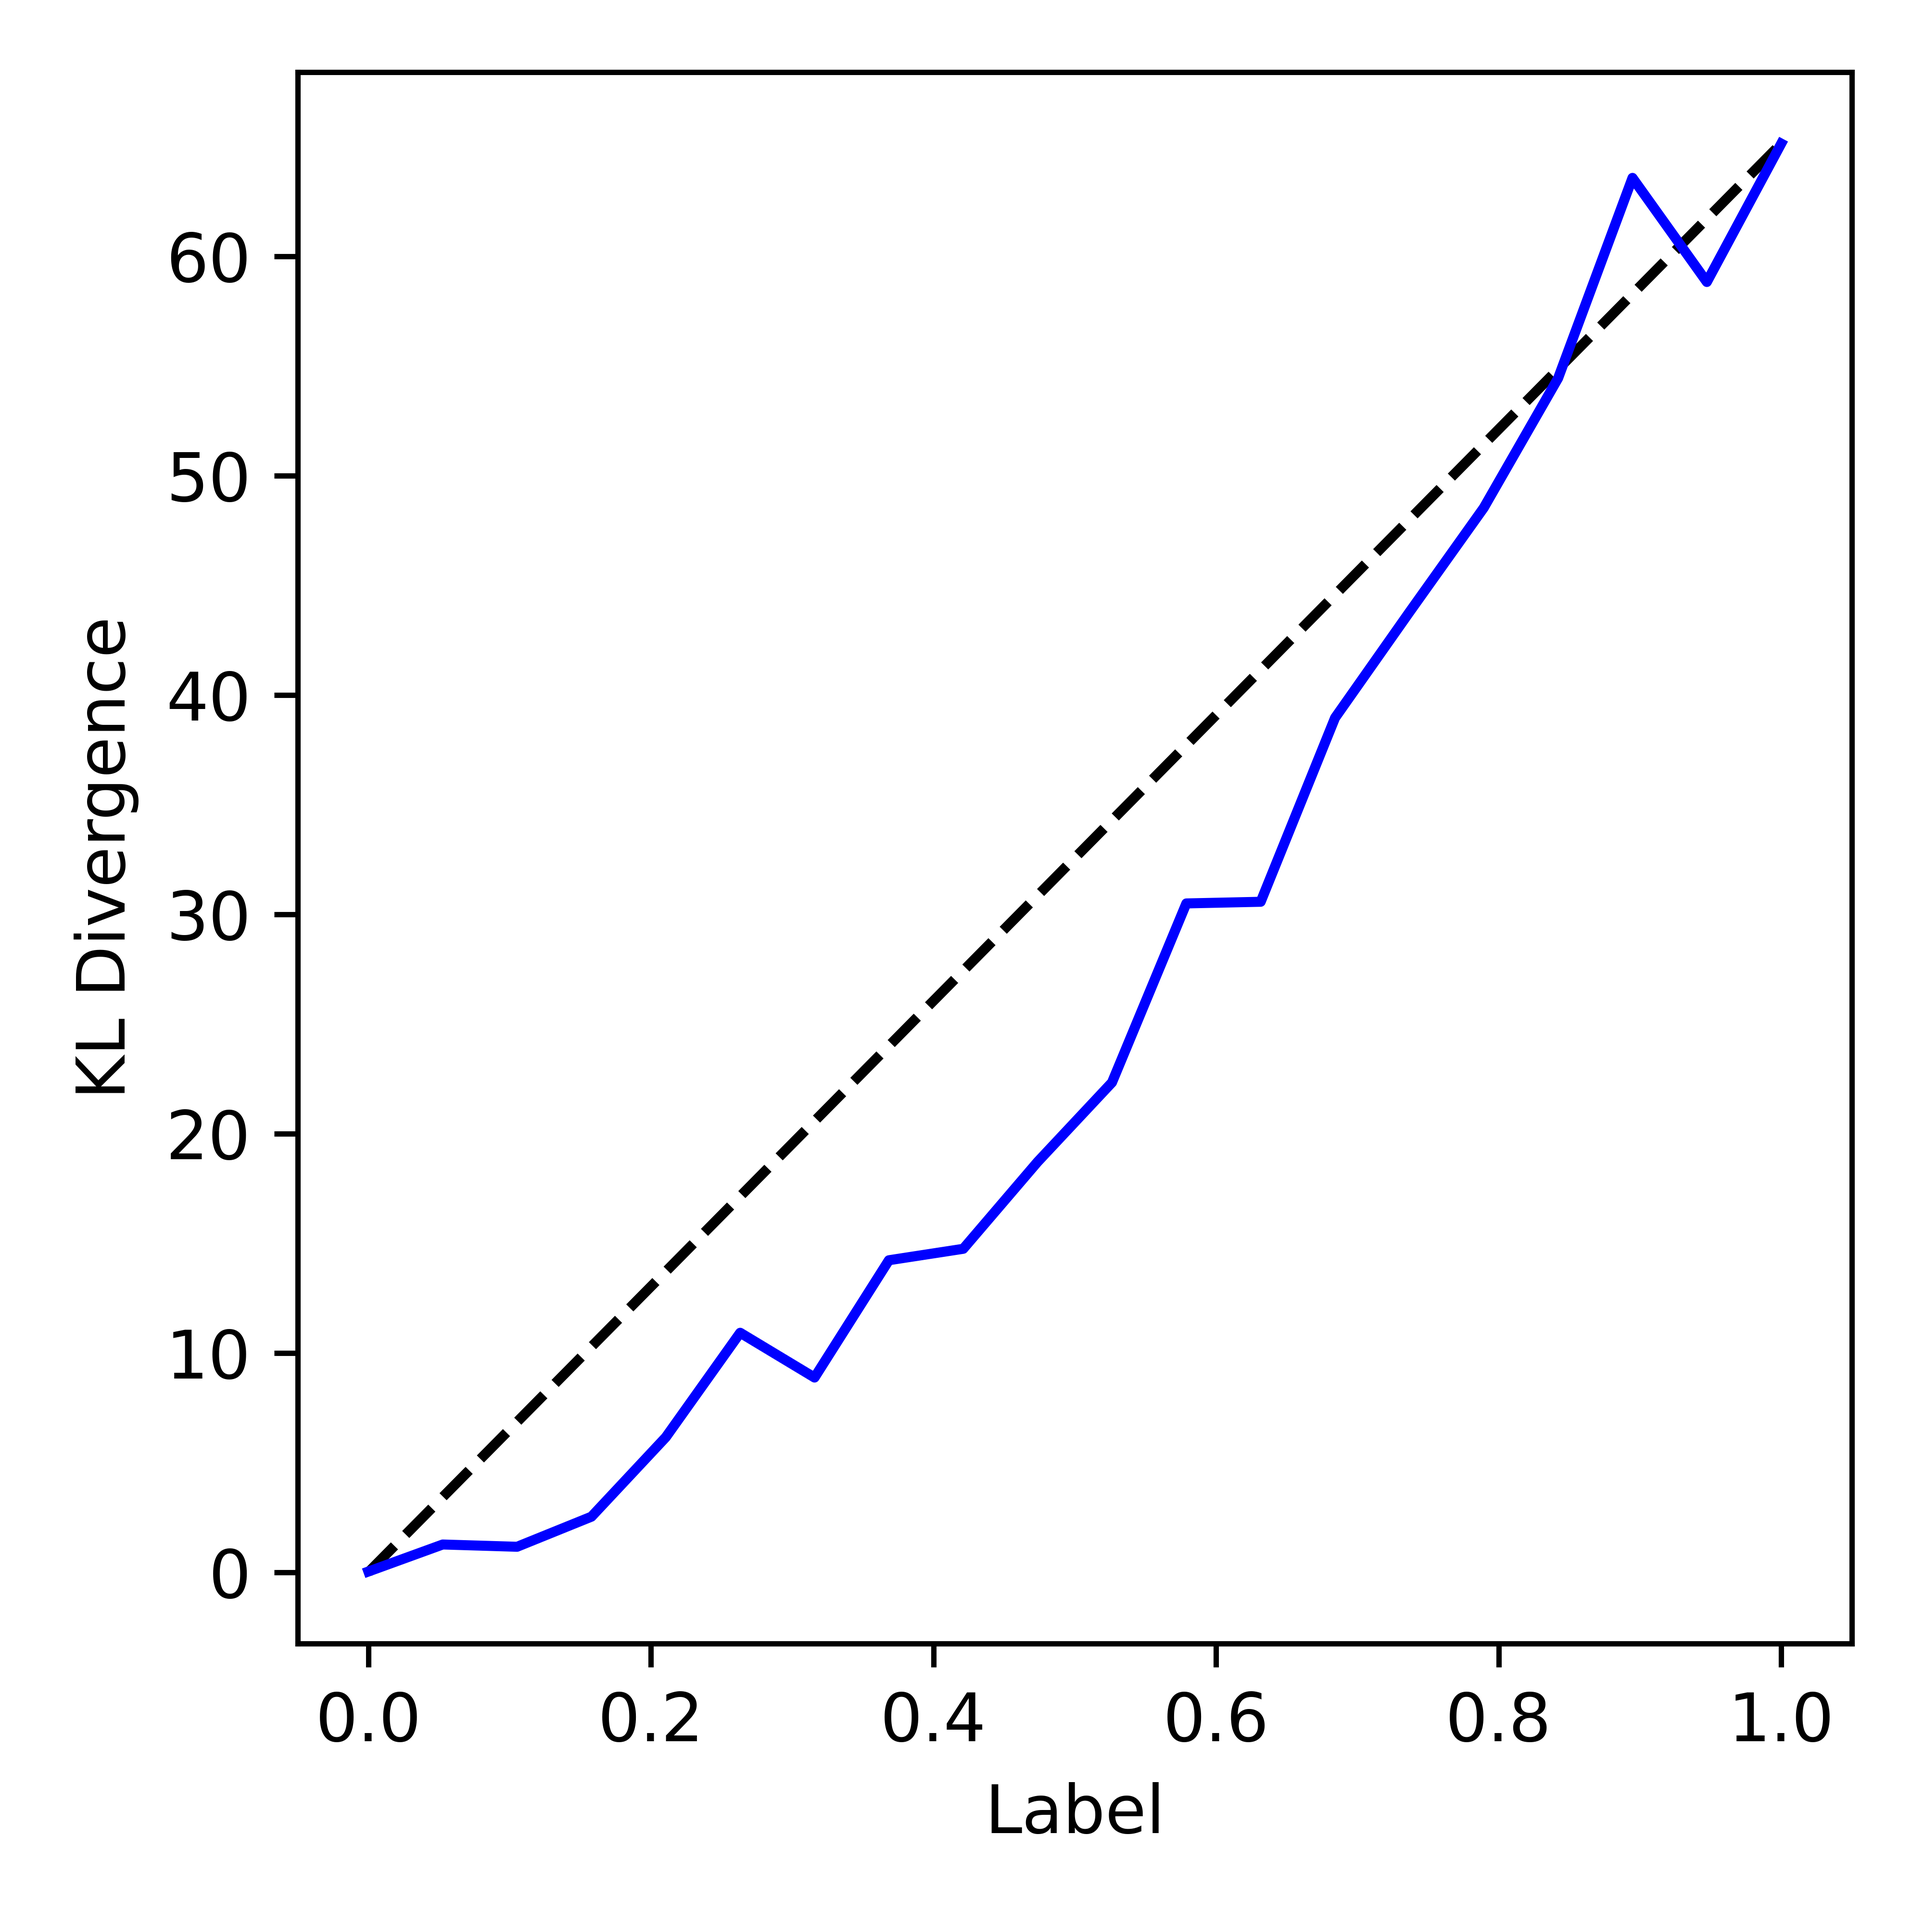
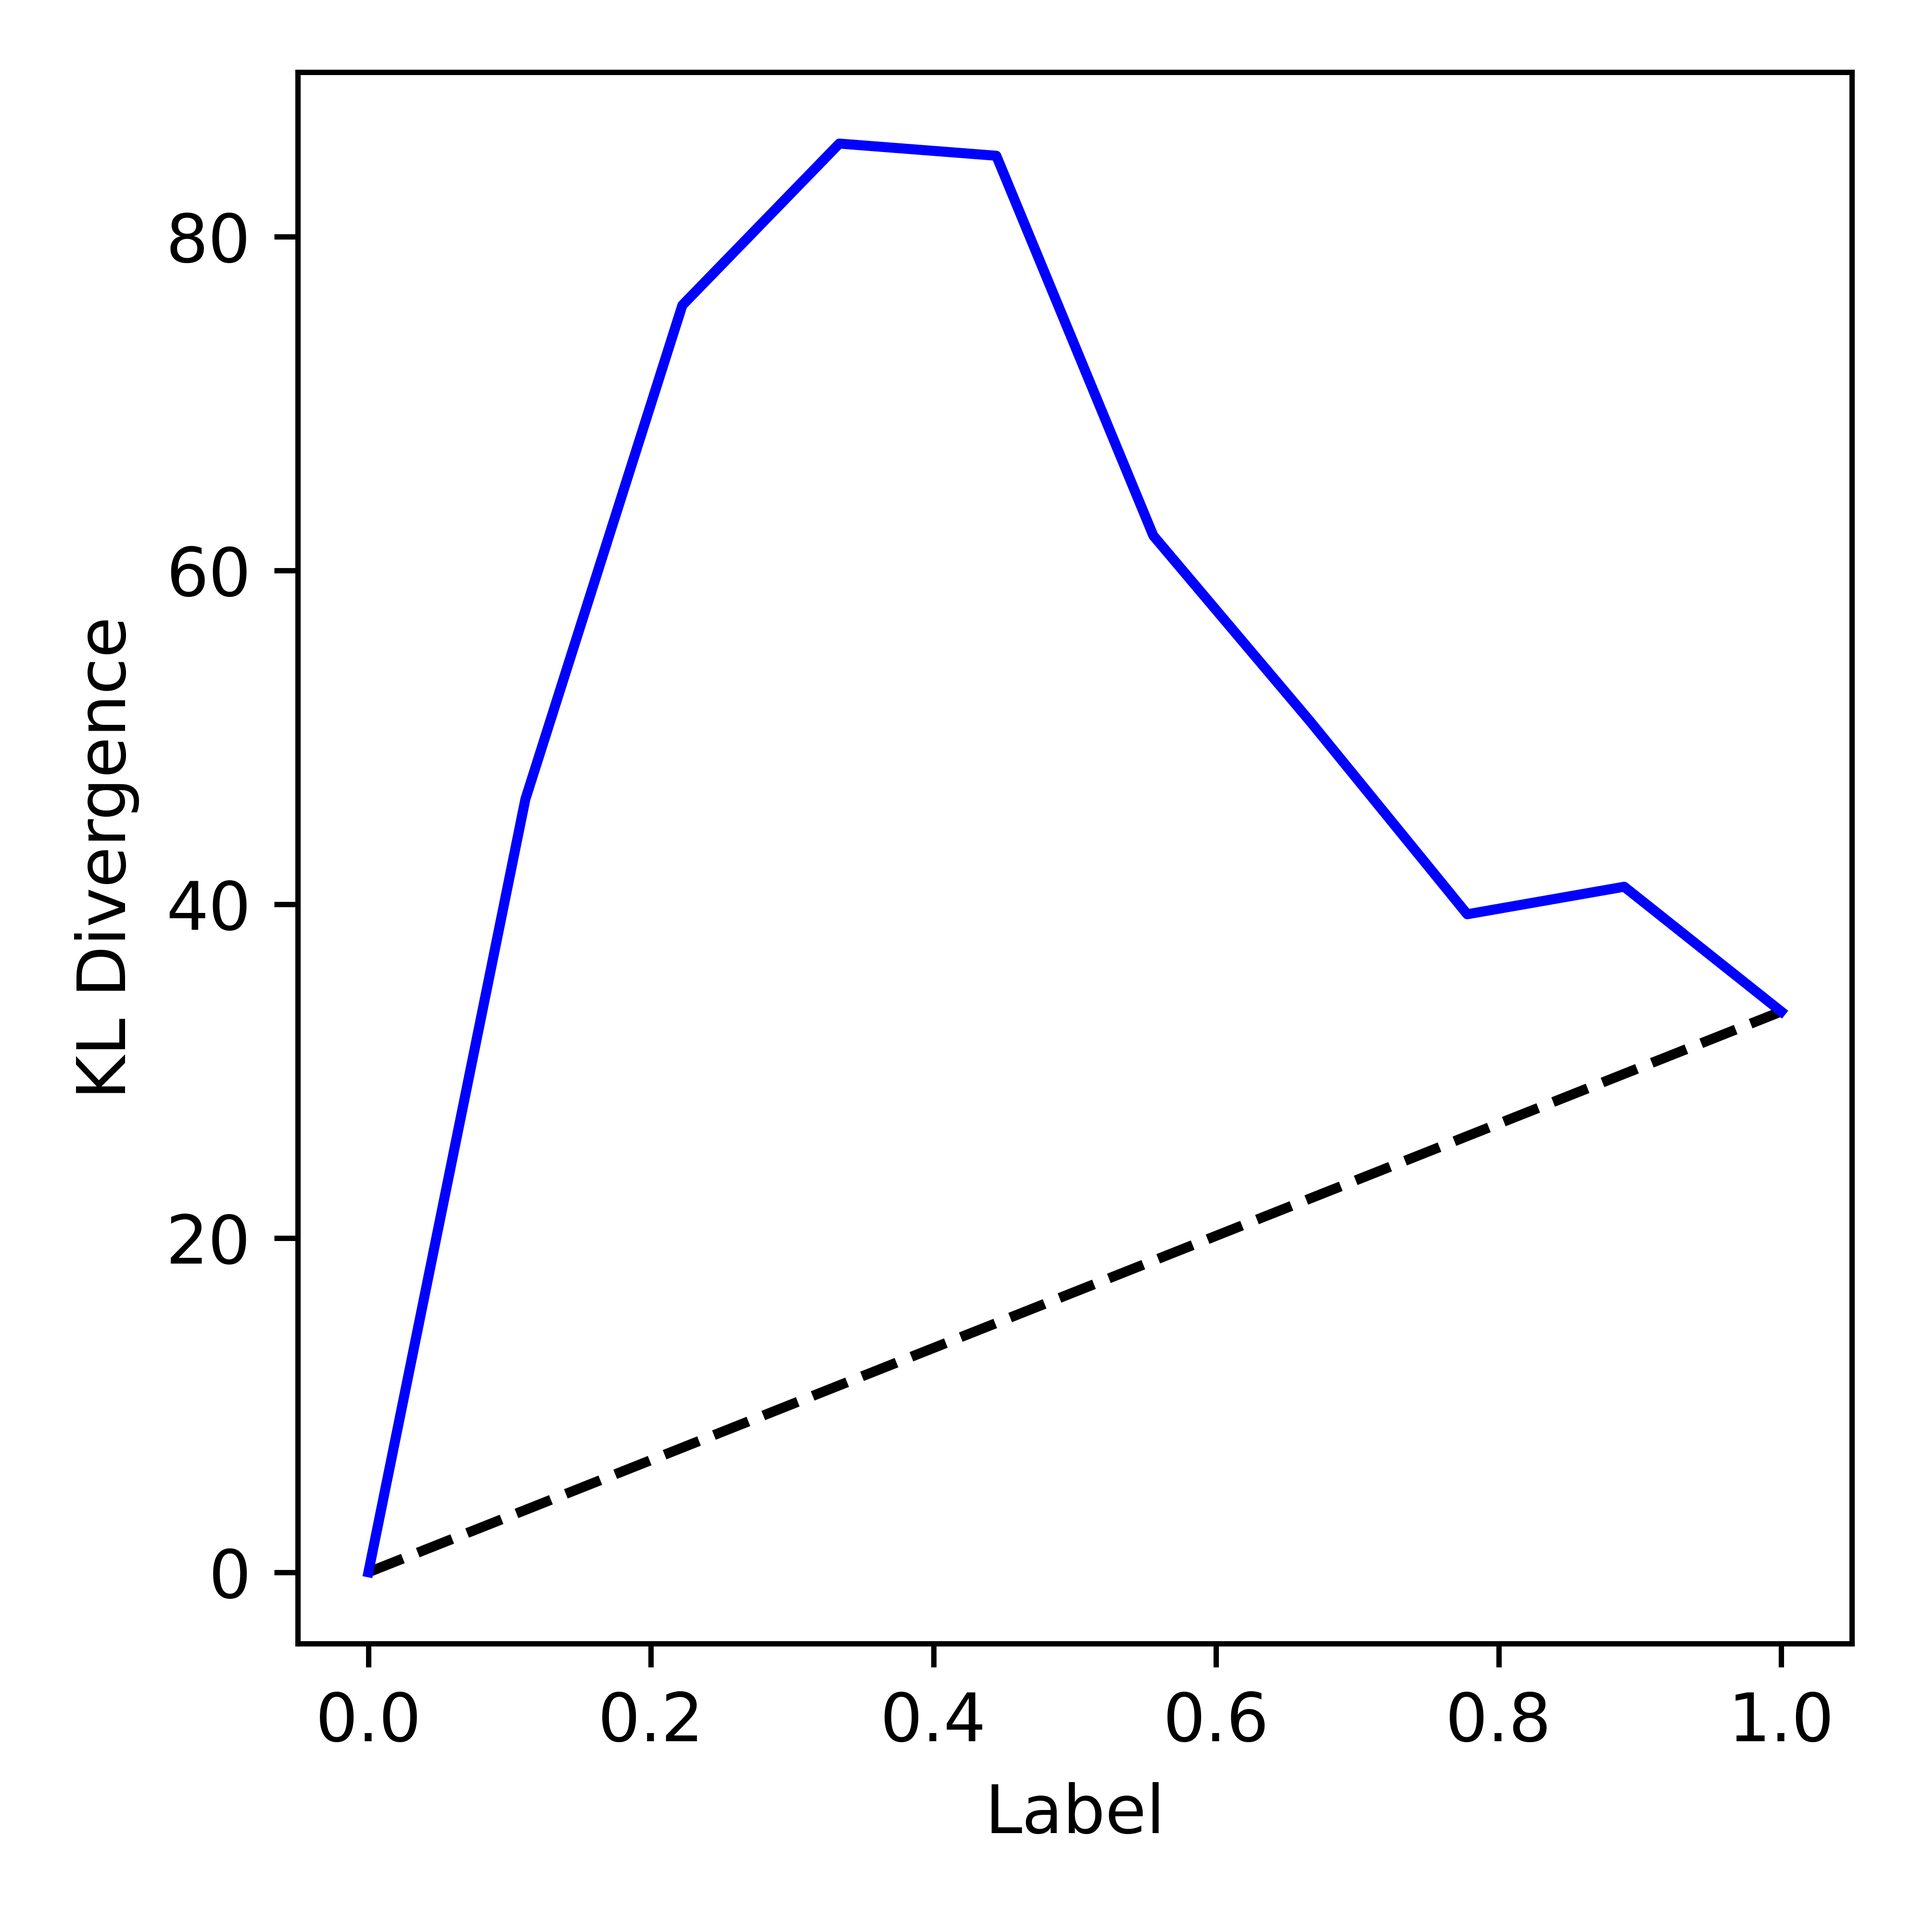
more training and eval

diff --git a/scripts/seismic/train.py b/scripts/seismic/train.py
@@ -130,7 +130,7 @@ def plot_label_calibration(
     )
     ax.plot(
         x,
-        divergences.detach().cpu() * failure_divergence.detach().cpu(),
+        divergences.detach().cpu(),
         "b-",
         label="Measured",
     )
@@ -165,11 +165,14 @@ def plot_logprob_calibration(
     with torch.no_grad():
         logprobs = []
         elbos = []
-        for x in torch.linspace(0.0, 1.0, divergence_bounds.shape[0]):
+        for x in torch.linspace(
+            0.0, 1.0, divergence_bounds.shape[0], device=failure_label.device
+        ):
+            print("Computing logprob for label", x)
             result = elbo_loss(
                 seismic_model,
                 failure_guide,
-                failure_label,
+                x.reshape(1),
                 num_elbo_particles,
                 N=n_failure,
                 receiver_observations=failure_observations,
@@ -182,7 +185,7 @@ def plot_logprob_calibration(
 
     # First plot shows KL divergence vs evidence
     ax[0].plot(
-        divergences.detach().cpu() * failure_divergence.detach().cpu(),
+        divergences.detach().cpu(),
         logprobs.detach().cpu(),
         "bo",
         label="Measured",
@@ -192,7 +195,7 @@ def plot_logprob_calibration(
 
     # Second plot shows KL divergence vs ELBO
     ax[1].plot(
-        divergences.detach().cpu() * failure_divergence.detach().cpu(),
+        divergences.detach().cpu(),
         elbos.detach().cpu(),
         "bo",
         label="Measured",
@@ -322,26 +325,26 @@ def train(
 
         # Re-scale the divergence to [0, 1] (since we're using unbounded KL divergence)
         # Use the divergence at label=1 as the reference point
-        failure_divergence = loss_components["divergence"][-1].clone()
-        loss_components["divergence"] /= failure_divergence + 1e-3
+        failure_divergence = loss_components["divergence"][-1]
 
         # Compute the calibration loss based on the elbo and the deviation from
         # divergence bounds
-        loss_components["divergence_deviation"] = torch.nn.functional.relu(
-            loss_components["divergence"] - divergence_bounds
+        loss_components["divergence_deviation"] = (
+            (
+                loss_components["divergence"]
+                / (loss_components["divergence"].max() + 1e-3)
+                - divergence_bounds
+            )
+            ** 2
         ).mean()
 
         # Compute the loss
         loss = torch.tensor(0.0).to(device)
         loss += (
-            elbo_weight
-            * loss_components["nominal_elbo"][0]
-            / (n_nominal * NY_COARSE * NX_COARSE)
+            elbo_weight * loss_components["nominal_elbo"][0] / (NY_COARSE * NX_COARSE)
         )
         loss += (
-            elbo_weight
-            * loss_components["failure_elbo"][0]
-            / (n_failure * NY_COARSE * NX_COARSE)
+            elbo_weight * loss_components["failure_elbo"][0] / (NY_COARSE * NX_COARSE)
         )
         loss += (
             divergence_weight
@@ -350,10 +353,10 @@ def train(
         )
 
         if regularize:
-            # loss += divergence_weight * failure_divergence
-            samples = failure_guide(failure_label).rsample((num_divergence_particles,))
-            nominal_logprob = nominal_guide(nominal_label).log_prob(samples).mean()
-            loss -= divergence_weight * nominal_logprob / (NX_COARSE * NY_COARSE)
+            loss += divergence_weight * failure_divergence
+            # samples = failure_guide(failure_label).rsample((num_divergence_particles,))
+            # nominal_logprob = nominal_guide(nominal_label).log_prob(samples).mean()
+            # loss -= divergence_weight * nominal_logprob / (NX_COARSE * NY_COARSE)
 
         # Step the optimizer
         loss.backward()
@@ -460,7 +463,7 @@ def train(
 )
 @click.option(
     "--num-divergence-points",
-    default=20,
+    default=10,
     type=int,
     help="number of points for divergence calibration",
 )
@@ -552,9 +555,9 @@ def run(
     run_name += "_ours" if (amortize and calibrate and not regularize) else ""
     run_name += "_amortized" if amortize else "_unamortized"
     run_name += "_calibrated" if calibrate else "_uncalibrated"
-    run_name += "_regularized" if regularize else "_unregularized"
+    run_name += "_regularized_kl" if regularize else "_unregularized"
     wandb.init(
-        project="swi_proper_kl_debug",
+        project="swi",
         name=run_name,
         group=run_name,
         config={

diff --git a/scripts/seismic/eval.py b/scripts/seismic/eval.py
@@ -1,0 +1,91 @@
+"""Evaluate trained models."""
+
+import pyro
+import torch
+import zuko
+
+from scripts.seismic.model import NX_COARSE, NY_COARSE, seismic_model
+from scripts.seismic.train import plot_logprob_calibration
+from scripts.utils import kl_divergence
+
+
+def load_flow(flow_path, device):
+    """Load a trained flow."""
+    flow = zuko.flows.NSF(features=NX_COARSE * NY_COARSE, context=1).to(device)
+    flow.load_state_dict(torch.load(flow_path))
+    flow.eval()
+    return flow
+
+
+if __name__ == "__main__":
+    seed = 0
+    device = torch.device("cuda" if torch.cuda.is_available() else "cpu")
+    torch.manual_seed(seed)
+    pyro.set_rng_seed(seed)
+
+    # Load a trained flow and plot the log probability calibration
+    name = "swi_vi_ours_amortized_calibrated_unregularized"  # ours
+    # name = "swi_vi_amortized_uncalibrated_regularized_kl"  # KL regularized
+    flow_path = "checkpoints/swi/" + name + "/checkpoint_299.pth"
+    guide = load_flow(flow_path, device=device)
+
+    # Make a bunch of eval data
+    n_failure = 100
+    with torch.no_grad():
+        profile_background = torch.zeros(NY_COARSE, NX_COARSE, device=device)
+
+        # Failure has a break in the middle of the layer
+        profile_failure = profile_background.expand(n_failure, -1, -1).clone()
+        profile_failure[:, 3:6, 0:4] = 1.0
+        profile_failure[:, 4:7, 6:10] = 1.0
+        profile_failure += 0.2 * torch.randn_like(profile_failure)
+
+        # Generate the data for the nominal and failure cases
+        observation_noise_scale = 1e-2
+
+        failure_observations = []
+        for i in range(n_failure):
+            failure_model = pyro.poutine.condition(
+                seismic_model, data={"profile": profile_failure[i]}
+            )
+            failure_observations.append(
+                failure_model(
+                    N=1, observation_noise_scale=observation_noise_scale, device=device
+                )
+            )
+        failure_observations = torch.cat(failure_observations)
+
+    num_elbo_particles = 50
+    num_divergence_particles = 100
+    num_divergence_points = 10
+    failure_label = torch.tensor([1.0], device=device)
+    divergence_bounds = torch.linspace(0.0, 1.0, num_divergence_points).to(device)
+    nominal_context = torch.tensor([[0.0]] * num_divergence_points).to(device)
+
+    # Get the divergences
+    with torch.no_grad():
+        print("Computing divergences...")
+        divergences = kl_divergence(
+            guide,
+            guide,
+            divergence_bounds.reshape(-1, 1),
+            nominal_context,
+            num_divergence_particles,
+        )
+        failure_divergence = divergences[-1]
+        print("Done.")
+
+        print("Plotting calibration...")
+        plot_logprob_calibration(
+            guide,
+            failure_label,
+            num_elbo_particles,
+            n_failure,
+            failure_observations,
+            divergence_bounds,
+            failure_divergence,
+            divergences,
+            save_file_name="eval_" + name + "_calibration_logprob_evidence.png",
+            save_wandb=False,
+        )
+        print("Done.")

diff --git a/scripts/seismic/model.py b/scripts/seismic/model.py
@@ -72,7 +72,7 @@ def seismic_model(
         "profile",
         dist.Normal(
             torch.zeros(NY_COARSE, NX_COARSE, device=device),
-            2.5 * torch.ones(NY_COARSE, NX_COARSE, device=device),
+            0.5 * torch.ones(NY_COARSE, NX_COARSE, device=device),
         ),
     )
     vp = profile * VP_SCALE + VP_CENTER
